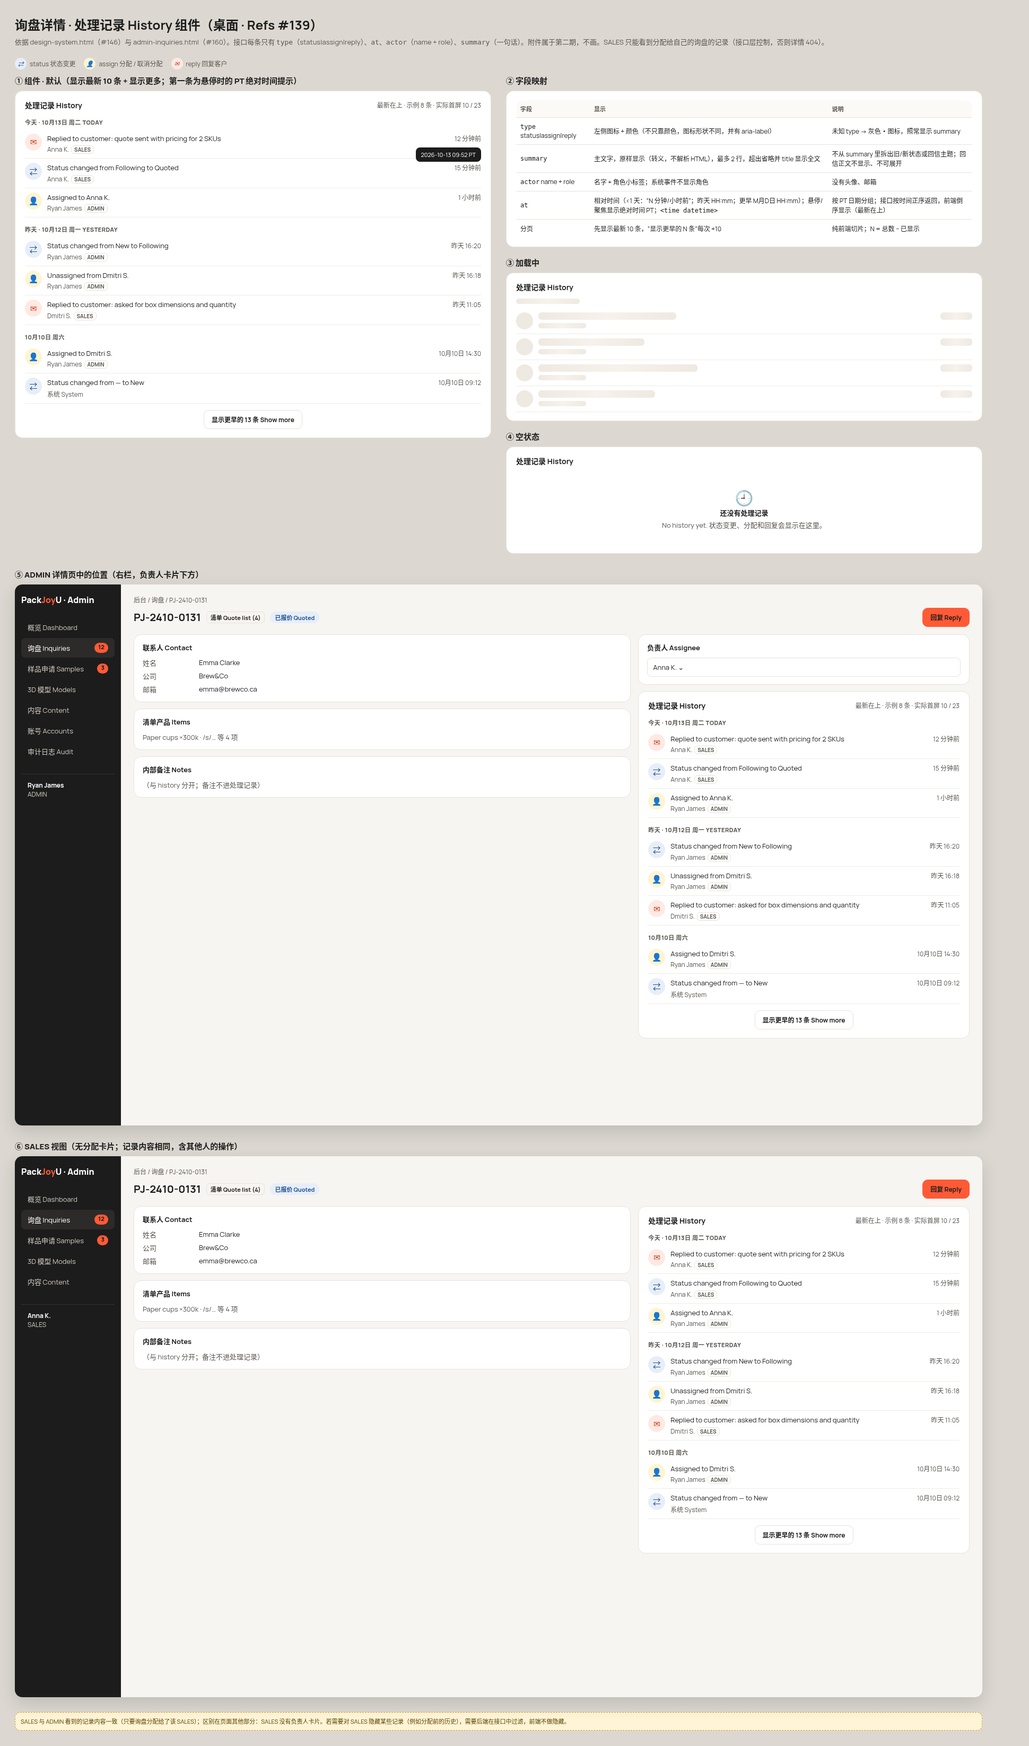
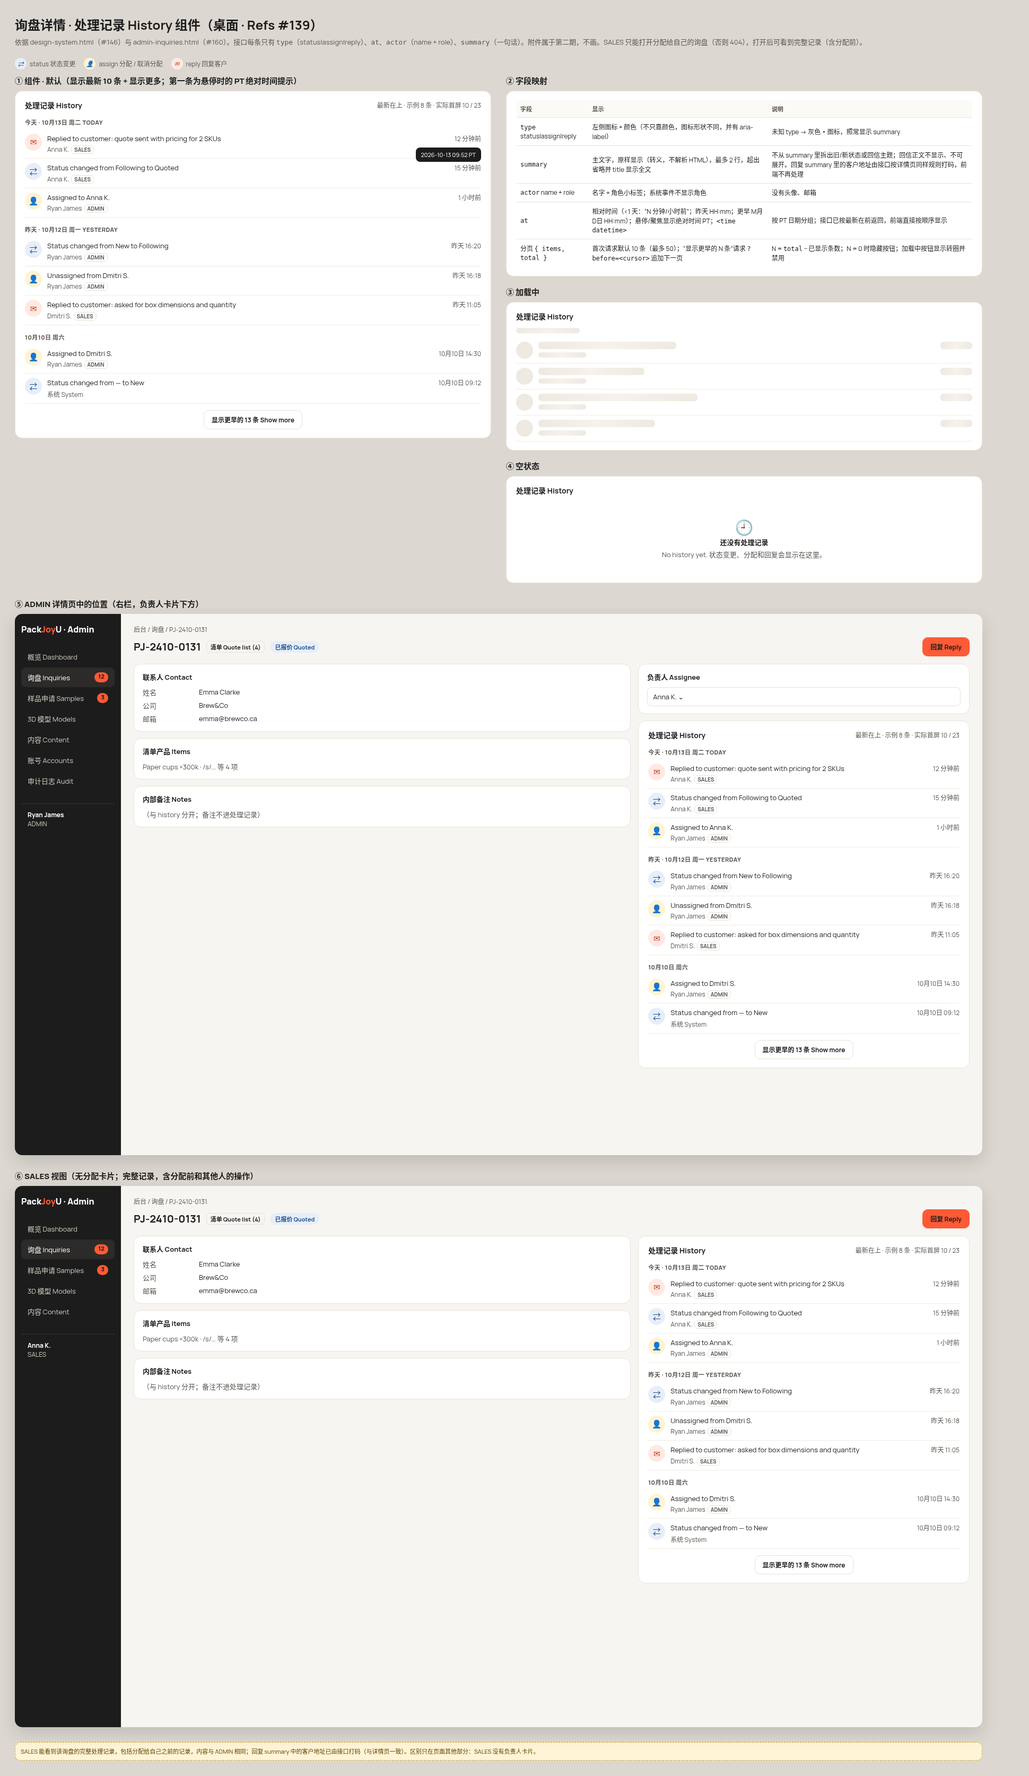
design(#163 follow-up): history API {items,total}, newest-first, ?before cursor; SALES full history

diff --git a/design/admin-history.html b/design/admin-history.html
@@ -38,18 +38,18 @@ table{width:100%;border-collapse:collapse;background:#fff;border:1px solid var(-
 .more{display:flex;justify-content:center;margin-top:12px}.leg{display:flex;gap:16px;margin-bottom:10px;font-size:12px;color:var(--ink2)}.leg span{display:flex;gap:6px;align-items:center}.leg .ico{width:22px;height:22px;font-size:11px}
 .map td,.map th{white-space:normal}
 </style></head><body>
-<h1>询盘详情 · 处理记录 History 组件（桌面 · Refs #139）</h1><p class="sub">依据 design-system.html（#146）与 admin-inquiries.html（#160）。接口每条只有 <code>type</code>（status|assign|reply）、<code>at</code>、<code>actor</code>（name + role）、<code>summary</code>（一句话）。附件属于第二期，不画。SALES 只能看到分配给自己的询盘的记录（接口层控制，否则详情 404）。</p>
+<h1>询盘详情 · 处理记录 History 组件（桌面 · Refs #139）</h1><p class="sub">依据 design-system.html（#146）与 admin-inquiries.html（#160）。接口每条只有 <code>type</code>（status|assign|reply）、<code>at</code>、<code>actor</code>（name + role）、<code>summary</code>（一句话）。附件属于第二期，不画。SALES 只能打开分配给自己的询盘（否则 404），打开后可看到完整记录（含分配前）。</p>
 <div class="leg"><span><i class="ico i-status">⇄</i>status 状态变更</span><span><i class="ico i-assign">👤</i>assign 分配 / 取消分配</span><span><i class="ico i-reply">✉</i>reply 回复客户</span></div>
 <div class="cols"><div><div class="t">① 组件 · 默认（显示最新 10 条 + 显示更多；第一条为悬停时的 PT 绝对时间提示）</div><div class="pan"><h3>处理记录 History <span class="muted" style="font-weight:400;font-size:12px">最新在上 · 示例 8 条 · 实际首屏 10 / 23</span></h3><div class="day">今天 · 10月13日 周二 TODAY</div><div class="hi2"><div class="ico i-reply" title="reply">✉</div><div><div class="sum">Replied to customer: quote sent with pricing for 2 SKUs</div><div class="act">Anna K.<span class="role">SALES</span></div></div><div class="tm" style="position:relative"><time title="2026-10-13 09:52 PT">12 分钟前</time><div class="tip">2026-10-13 09:52 PT</div></div></div><div class="hi2"><div class="ico i-status" title="status">⇄</div><div><div class="sum">Status changed from Following to Quoted</div><div class="act">Anna K.<span class="role">SALES</span></div></div><div class="tm" style="position:relative"><time title="2026-10-13 09:49 PT">15 分钟前</time></div></div><div class="hi2"><div class="ico i-assign" title="assign">👤</div><div><div class="sum">Assigned to Anna K.</div><div class="act">Ryan James<span class="role">ADMIN</span></div></div><div class="tm" style="position:relative"><time title="2026-10-13 09:03 PT">1 小时前</time></div></div><div class="day">昨天 · 10月12日 周一 YESTERDAY</div><div class="hi2"><div class="ico i-status" title="status">⇄</div><div><div class="sum">Status changed from New to Following</div><div class="act">Ryan James<span class="role">ADMIN</span></div></div><div class="tm" style="position:relative"><time title="2026-10-12 16:20 PT">昨天 16:20</time></div></div><div class="hi2"><div class="ico i-assign" title="assign">👤</div><div><div class="sum">Unassigned from Dmitri S.</div><div class="act">Ryan James<span class="role">ADMIN</span></div></div><div class="tm" style="position:relative"><time title="2026-10-12 16:18 PT">昨天 16:18</time></div></div><div class="hi2"><div class="ico i-reply" title="reply">✉</div><div><div class="sum">Replied to customer: asked for box dimensions and quantity</div><div class="act">Dmitri S.<span class="role">SALES</span></div></div><div class="tm" style="position:relative"><time title="2026-10-12 11:05 PT">昨天 11:05</time></div></div><div class="day">10月10日 周六</div><div class="hi2"><div class="ico i-assign" title="assign">👤</div><div><div class="sum">Assigned to Dmitri S.</div><div class="act">Ryan James<span class="role">ADMIN</span></div></div><div class="tm" style="position:relative"><time title="2026-10-10 14:30 PT">10月10日 14:30</time></div></div><div class="hi2"><div class="ico i-status" title="status">⇄</div><div><div class="sum">Status changed from — to New</div><div class="act">系统 System</div></div><div class="tm" style="position:relative"><time title="2026-10-10 09:12 PT">10月10日 09:12</time></div></div><div class="more"><span class="btn">显示更早的 13 条 Show more</span></div></div></div><div><div class="t">② 字段映射</div><div class="pan"><table class="map"><tr><th>字段</th><th>显示</th><th>说明</th></tr>
 <tr><td><code>type</code> status|assign|reply</td><td>左侧图标 + 颜色（不只靠颜色，图标形状不同，并有 aria-label）</td><td>未知 type → 灰色 • 图标，照常显示 summary</td></tr>
-<tr><td><code>summary</code></td><td>主文字，原样显示（转义，不解析 HTML），最多 2 行，超出省略并 title 显示全文</td><td>不从 summary 里拆出旧/新状态或回信主题；回信正文不显示、不可展开</td></tr>
+<tr><td><code>summary</code></td><td>主文字，原样显示（转义，不解析 HTML），最多 2 行，超出省略并 title 显示全文</td><td>不从 summary 里拆出旧/新状态或回信主题；回信正文不显示、不可展开。回复 summary 里的客户地址由接口按详情页同样规则打码，前端不再处理</td></tr>
 <tr><td><code>actor</code> name + role</td><td>名字 + 角色小标签；系统事件不显示角色</td><td>没有头像、邮箱</td></tr>
-<tr><td><code>at</code></td><td>相对时间（&lt;1 天：“N 分钟/小时前”；昨天 HH:mm；更早 M月D日 HH:mm）；悬停/聚焦显示绝对时间 PT；<code>&lt;time datetime&gt;</code></td><td>按 PT 日期分组；接口按时间正序返回，前端倒序显示（最新在上）</td></tr>
-<tr><td>分页</td><td>先显示最新 10 条，“显示更早的 N 条”每次 +10</td><td>纯前端切片；N = 总数 − 已显示</td></tr></table></div><div class="t" style="margin-top:18px">③ 加载中</div><div class="pan" aria-busy="true"><h3>处理记录 History</h3><div class="sk" style="width:120px;height:10px;margin:8px 0"></div><div class="hi2"><div class="ico" style="background:#EEE9E1"></div><div><div class="sk" style="width:260px;margin-bottom:6px"></div><div class="sk" style="width:90px;height:10px"></div></div><div class="sk" style="width:60px"></div></div><div class="hi2"><div class="ico" style="background:#EEE9E1"></div><div><div class="sk" style="width:200px;margin-bottom:6px"></div><div class="sk" style="width:90px;height:10px"></div></div><div class="sk" style="width:60px"></div></div><div class="hi2"><div class="ico" style="background:#EEE9E1"></div><div><div class="sk" style="width:300px;margin-bottom:6px"></div><div class="sk" style="width:90px;height:10px"></div></div><div class="sk" style="width:60px"></div></div><div class="hi2"><div class="ico" style="background:#EEE9E1"></div><div><div class="sk" style="width:220px;margin-bottom:6px"></div><div class="sk" style="width:90px;height:10px"></div></div><div class="sk" style="width:60px"></div></div></div><div class="t" style="margin-top:18px">④ 空状态</div><div class="pan"><h3>处理记录 History</h3><div style="text-align:center;padding:28px 0"><div style="font-size:28px">🕘</div><b>还没有处理记录</b><p class="muted" style="margin-top:4px">No history yet. 状态变更、分配和回复会显示在这里。</p></div></div></div></div>
+<tr><td><code>at</code></td><td>相对时间（&lt;1 天：“N 分钟/小时前”；昨天 HH:mm；更早 M月D日 HH:mm）；悬停/聚焦显示绝对时间 PT；<code>&lt;time datetime&gt;</code></td><td>按 PT 日期分组；接口已按最新在前返回，前端直接按顺序显示</td></tr>
+<tr><td>分页 <code>{ items, total }</code></td><td>首次请求默认 10 条（最多 50）；“显示更早的 N 条”请求 <code>?before=&lt;cursor&gt;</code> 追加下一页</td><td>N = <code>total</code> − 已显示条数；N = 0 时隐藏按钮；加载中按钮显示转圈并禁用</td></tr></table></div><div class="t" style="margin-top:18px">③ 加载中</div><div class="pan" aria-busy="true"><h3>处理记录 History</h3><div class="sk" style="width:120px;height:10px;margin:8px 0"></div><div class="hi2"><div class="ico" style="background:#EEE9E1"></div><div><div class="sk" style="width:260px;margin-bottom:6px"></div><div class="sk" style="width:90px;height:10px"></div></div><div class="sk" style="width:60px"></div></div><div class="hi2"><div class="ico" style="background:#EEE9E1"></div><div><div class="sk" style="width:200px;margin-bottom:6px"></div><div class="sk" style="width:90px;height:10px"></div></div><div class="sk" style="width:60px"></div></div><div class="hi2"><div class="ico" style="background:#EEE9E1"></div><div><div class="sk" style="width:300px;margin-bottom:6px"></div><div class="sk" style="width:90px;height:10px"></div></div><div class="sk" style="width:60px"></div></div><div class="hi2"><div class="ico" style="background:#EEE9E1"></div><div><div class="sk" style="width:220px;margin-bottom:6px"></div><div class="sk" style="width:90px;height:10px"></div></div><div class="sk" style="width:60px"></div></div></div><div class="t" style="margin-top:18px">④ 空状态</div><div class="pan"><h3>处理记录 History</h3><div style="text-align:center;padding:28px 0"><div style="font-size:28px">🕘</div><b>还没有处理记录</b><p class="muted" style="margin-top:4px">No history yet. 状态变更、分配和回复会显示在这里。</p></div></div></div></div>
 <div class="cols" style="grid-template-columns:1fr"><div><div class="t">⑤ ADMIN 详情页中的位置（右栏，负责人卡片下方）</div><div class="win" style="height:1020px"><div class="side"><div class="lg">Pack<i>Joy</i>U · Admin</div><div class="ni">概览 Dashboard</div><div class="ni on">询盘 Inquiries<span class=b>12</span></div><div class="ni">样品申请 Samples<span class=b>3</span></div><div class="ni">3D 模型 Models</div><div class="ni">内容 Content</div><div class="ni">账号 Accounts</div><div class="ni">审计日志 Audit</div><div class="who"><b>Ryan James</b>ADMIN</div></div><div class="main"><div class="crumb">后台 / 询盘 / PJ-2410-0131</div><div class="hd"><h2>PJ-2410-0131</h2><span class="ty">清单 Quote list (4)</span><span class="tag QUO">已报价 Quoted</span><span class="sp"></span><span class="btn pri">回复 Reply</span></div>
 <div class="g2"><div><div class="card"><h3>联系人 Contact</h3><div class="kv"><span>姓名</span>Emma Clarke<span>公司</span>Brew&amp;Co<span>邮箱</span>emma@brewco.ca</div></div><div class="card"><h3>清单产品 Items</h3><div class="muted">Paper cups ×300k · /s/… 等 4 项</div></div>
-<div class="card"><h3>内部备注 Notes</h3><div class="muted">（与 history 分开；备注不进处理记录）</div></div></div><div><div class='card'><h3>负责人 Assignee</h3><div class='in'>Anna K. ⌄</div></div><div class="pan"><h3>处理记录 History <span class="muted" style="font-weight:400;font-size:12px">最新在上 · 示例 8 条 · 实际首屏 10 / 23</span></h3><div class="day">今天 · 10月13日 周二 TODAY</div><div class="hi2"><div class="ico i-reply" title="reply">✉</div><div><div class="sum">Replied to customer: quote sent with pricing for 2 SKUs</div><div class="act">Anna K.<span class="role">SALES</span></div></div><div class="tm" style="position:relative"><time title="2026-10-13 09:52 PT">12 分钟前</time></div></div><div class="hi2"><div class="ico i-status" title="status">⇄</div><div><div class="sum">Status changed from Following to Quoted</div><div class="act">Anna K.<span class="role">SALES</span></div></div><div class="tm" style="position:relative"><time title="2026-10-13 09:49 PT">15 分钟前</time></div></div><div class="hi2"><div class="ico i-assign" title="assign">👤</div><div><div class="sum">Assigned to Anna K.</div><div class="act">Ryan James<span class="role">ADMIN</span></div></div><div class="tm" style="position:relative"><time title="2026-10-13 09:03 PT">1 小时前</time></div></div><div class="day">昨天 · 10月12日 周一 YESTERDAY</div><div class="hi2"><div class="ico i-status" title="status">⇄</div><div><div class="sum">Status changed from New to Following</div><div class="act">Ryan James<span class="role">ADMIN</span></div></div><div class="tm" style="position:relative"><time title="2026-10-12 16:20 PT">昨天 16:20</time></div></div><div class="hi2"><div class="ico i-assign" title="assign">👤</div><div><div class="sum">Unassigned from Dmitri S.</div><div class="act">Ryan James<span class="role">ADMIN</span></div></div><div class="tm" style="position:relative"><time title="2026-10-12 16:18 PT">昨天 16:18</time></div></div><div class="hi2"><div class="ico i-reply" title="reply">✉</div><div><div class="sum">Replied to customer: asked for box dimensions and quantity</div><div class="act">Dmitri S.<span class="role">SALES</span></div></div><div class="tm" style="position:relative"><time title="2026-10-12 11:05 PT">昨天 11:05</time></div></div><div class="day">10月10日 周六</div><div class="hi2"><div class="ico i-assign" title="assign">👤</div><div><div class="sum">Assigned to Dmitri S.</div><div class="act">Ryan James<span class="role">ADMIN</span></div></div><div class="tm" style="position:relative"><time title="2026-10-10 14:30 PT">10月10日 14:30</time></div></div><div class="hi2"><div class="ico i-status" title="status">⇄</div><div><div class="sum">Status changed from — to New</div><div class="act">系统 System</div></div><div class="tm" style="position:relative"><time title="2026-10-10 09:12 PT">10月10日 09:12</time></div></div><div class="more"><span class="btn">显示更早的 13 条 Show more</span></div></div></div></div></div></div></div><div><div class="t">⑥ SALES 视图（无分配卡片；记录内容相同，含其他人的操作）</div><div class="win" style="height:1020px"><div class="side"><div class="lg">Pack<i>Joy</i>U · Admin</div><div class="ni">概览 Dashboard</div><div class="ni on">询盘 Inquiries<span class=b>12</span></div><div class="ni">样品申请 Samples<span class=b>3</span></div><div class="ni">3D 模型 Models</div><div class="ni">内容 Content</div><div class="who"><b>Anna K.</b>SALES</div></div><div class="main"><div class="crumb">后台 / 询盘 / PJ-2410-0131</div><div class="hd"><h2>PJ-2410-0131</h2><span class="ty">清单 Quote list (4)</span><span class="tag QUO">已报价 Quoted</span><span class="sp"></span><span class="btn pri">回复 Reply</span></div>
+<div class="card"><h3>内部备注 Notes</h3><div class="muted">（与 history 分开；备注不进处理记录）</div></div></div><div><div class='card'><h3>负责人 Assignee</h3><div class='in'>Anna K. ⌄</div></div><div class="pan"><h3>处理记录 History <span class="muted" style="font-weight:400;font-size:12px">最新在上 · 示例 8 条 · 实际首屏 10 / 23</span></h3><div class="day">今天 · 10月13日 周二 TODAY</div><div class="hi2"><div class="ico i-reply" title="reply">✉</div><div><div class="sum">Replied to customer: quote sent with pricing for 2 SKUs</div><div class="act">Anna K.<span class="role">SALES</span></div></div><div class="tm" style="position:relative"><time title="2026-10-13 09:52 PT">12 分钟前</time></div></div><div class="hi2"><div class="ico i-status" title="status">⇄</div><div><div class="sum">Status changed from Following to Quoted</div><div class="act">Anna K.<span class="role">SALES</span></div></div><div class="tm" style="position:relative"><time title="2026-10-13 09:49 PT">15 分钟前</time></div></div><div class="hi2"><div class="ico i-assign" title="assign">👤</div><div><div class="sum">Assigned to Anna K.</div><div class="act">Ryan James<span class="role">ADMIN</span></div></div><div class="tm" style="position:relative"><time title="2026-10-13 09:03 PT">1 小时前</time></div></div><div class="day">昨天 · 10月12日 周一 YESTERDAY</div><div class="hi2"><div class="ico i-status" title="status">⇄</div><div><div class="sum">Status changed from New to Following</div><div class="act">Ryan James<span class="role">ADMIN</span></div></div><div class="tm" style="position:relative"><time title="2026-10-12 16:20 PT">昨天 16:20</time></div></div><div class="hi2"><div class="ico i-assign" title="assign">👤</div><div><div class="sum">Unassigned from Dmitri S.</div><div class="act">Ryan James<span class="role">ADMIN</span></div></div><div class="tm" style="position:relative"><time title="2026-10-12 16:18 PT">昨天 16:18</time></div></div><div class="hi2"><div class="ico i-reply" title="reply">✉</div><div><div class="sum">Replied to customer: asked for box dimensions and quantity</div><div class="act">Dmitri S.<span class="role">SALES</span></div></div><div class="tm" style="position:relative"><time title="2026-10-12 11:05 PT">昨天 11:05</time></div></div><div class="day">10月10日 周六</div><div class="hi2"><div class="ico i-assign" title="assign">👤</div><div><div class="sum">Assigned to Dmitri S.</div><div class="act">Ryan James<span class="role">ADMIN</span></div></div><div class="tm" style="position:relative"><time title="2026-10-10 14:30 PT">10月10日 14:30</time></div></div><div class="hi2"><div class="ico i-status" title="status">⇄</div><div><div class="sum">Status changed from — to New</div><div class="act">系统 System</div></div><div class="tm" style="position:relative"><time title="2026-10-10 09:12 PT">10月10日 09:12</time></div></div><div class="more"><span class="btn">显示更早的 13 条 Show more</span></div></div></div></div></div></div></div><div><div class="t">⑥ SALES 视图（无分配卡片；完整记录，含分配前和其他人的操作）</div><div class="win" style="height:1020px"><div class="side"><div class="lg">Pack<i>Joy</i>U · Admin</div><div class="ni">概览 Dashboard</div><div class="ni on">询盘 Inquiries<span class=b>12</span></div><div class="ni">样品申请 Samples<span class=b>3</span></div><div class="ni">3D 模型 Models</div><div class="ni">内容 Content</div><div class="who"><b>Anna K.</b>SALES</div></div><div class="main"><div class="crumb">后台 / 询盘 / PJ-2410-0131</div><div class="hd"><h2>PJ-2410-0131</h2><span class="ty">清单 Quote list (4)</span><span class="tag QUO">已报价 Quoted</span><span class="sp"></span><span class="btn pri">回复 Reply</span></div>
 <div class="g2"><div><div class="card"><h3>联系人 Contact</h3><div class="kv"><span>姓名</span>Emma Clarke<span>公司</span>Brew&amp;Co<span>邮箱</span>emma@brewco.ca</div></div><div class="card"><h3>清单产品 Items</h3><div class="muted">Paper cups ×300k · /s/… 等 4 项</div></div>
 <div class="card"><h3>内部备注 Notes</h3><div class="muted">（与 history 分开；备注不进处理记录）</div></div></div><div><div class="pan"><h3>处理记录 History <span class="muted" style="font-weight:400;font-size:12px">最新在上 · 示例 8 条 · 实际首屏 10 / 23</span></h3><div class="day">今天 · 10月13日 周二 TODAY</div><div class="hi2"><div class="ico i-reply" title="reply">✉</div><div><div class="sum">Replied to customer: quote sent with pricing for 2 SKUs</div><div class="act">Anna K.<span class="role">SALES</span></div></div><div class="tm" style="position:relative"><time title="2026-10-13 09:52 PT">12 分钟前</time></div></div><div class="hi2"><div class="ico i-status" title="status">⇄</div><div><div class="sum">Status changed from Following to Quoted</div><div class="act">Anna K.<span class="role">SALES</span></div></div><div class="tm" style="position:relative"><time title="2026-10-13 09:49 PT">15 分钟前</time></div></div><div class="hi2"><div class="ico i-assign" title="assign">👤</div><div><div class="sum">Assigned to Anna K.</div><div class="act">Ryan James<span class="role">ADMIN</span></div></div><div class="tm" style="position:relative"><time title="2026-10-13 09:03 PT">1 小时前</time></div></div><div class="day">昨天 · 10月12日 周一 YESTERDAY</div><div class="hi2"><div class="ico i-status" title="status">⇄</div><div><div class="sum">Status changed from New to Following</div><div class="act">Ryan James<span class="role">ADMIN</span></div></div><div class="tm" style="position:relative"><time title="2026-10-12 16:20 PT">昨天 16:20</time></div></div><div class="hi2"><div class="ico i-assign" title="assign">👤</div><div><div class="sum">Unassigned from Dmitri S.</div><div class="act">Ryan James<span class="role">ADMIN</span></div></div><div class="tm" style="position:relative"><time title="2026-10-12 16:18 PT">昨天 16:18</time></div></div><div class="hi2"><div class="ico i-reply" title="reply">✉</div><div><div class="sum">Replied to customer: asked for box dimensions and quantity</div><div class="act">Dmitri S.<span class="role">SALES</span></div></div><div class="tm" style="position:relative"><time title="2026-10-12 11:05 PT">昨天 11:05</time></div></div><div class="day">10月10日 周六</div><div class="hi2"><div class="ico i-assign" title="assign">👤</div><div><div class="sum">Assigned to Dmitri S.</div><div class="act">Ryan James<span class="role">ADMIN</span></div></div><div class="tm" style="position:relative"><time title="2026-10-10 14:30 PT">10月10日 14:30</time></div></div><div class="hi2"><div class="ico i-status" title="status">⇄</div><div><div class="sum">Status changed from — to New</div><div class="act">系统 System</div></div><div class="tm" style="position:relative"><time title="2026-10-10 09:12 PT">10月10日 09:12</time></div></div><div class="more"><span class="btn">显示更早的 13 条 Show more</span></div></div></div></div></div></div></div></div>
-<div class="ann">SALES 与 ADMIN 看到的记录内容一致（只要询盘分配给了该 SALES）；区别在页面其他部分：SALES 没有负责人卡片。若需要对 SALES 隐藏某些记录（例如分配前的历史），需要后端在接口中过滤，前端不做隐藏。</div>
+<div class="ann">SALES 能看到该询盘的完整处理记录，包括分配给自己之前的记录，内容与 ADMIN 相同；回复 summary 中的客户地址已由接口打码（与详情页一致）。区别只在页面其他部分：SALES 没有负责人卡片。</div>
 </body></html>
